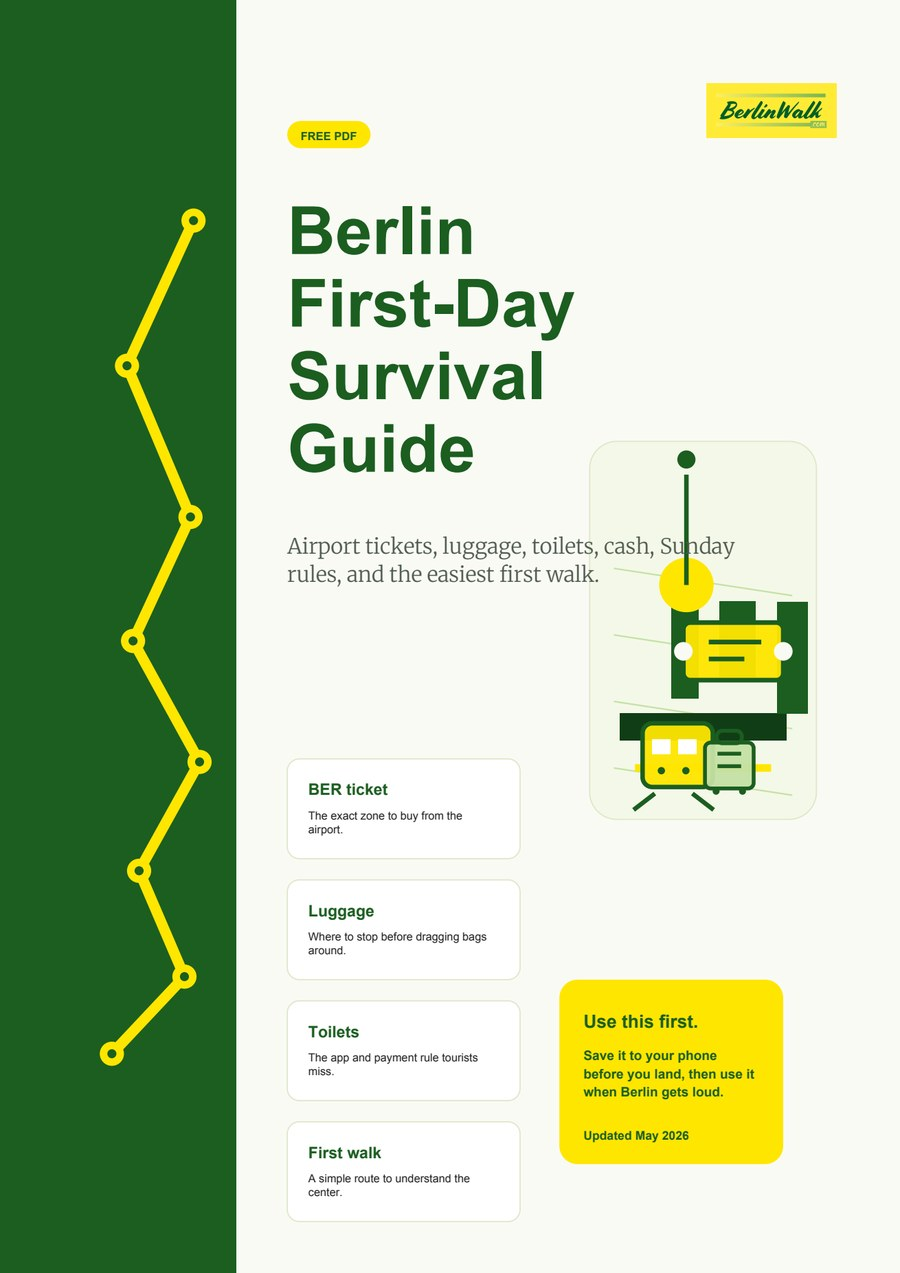
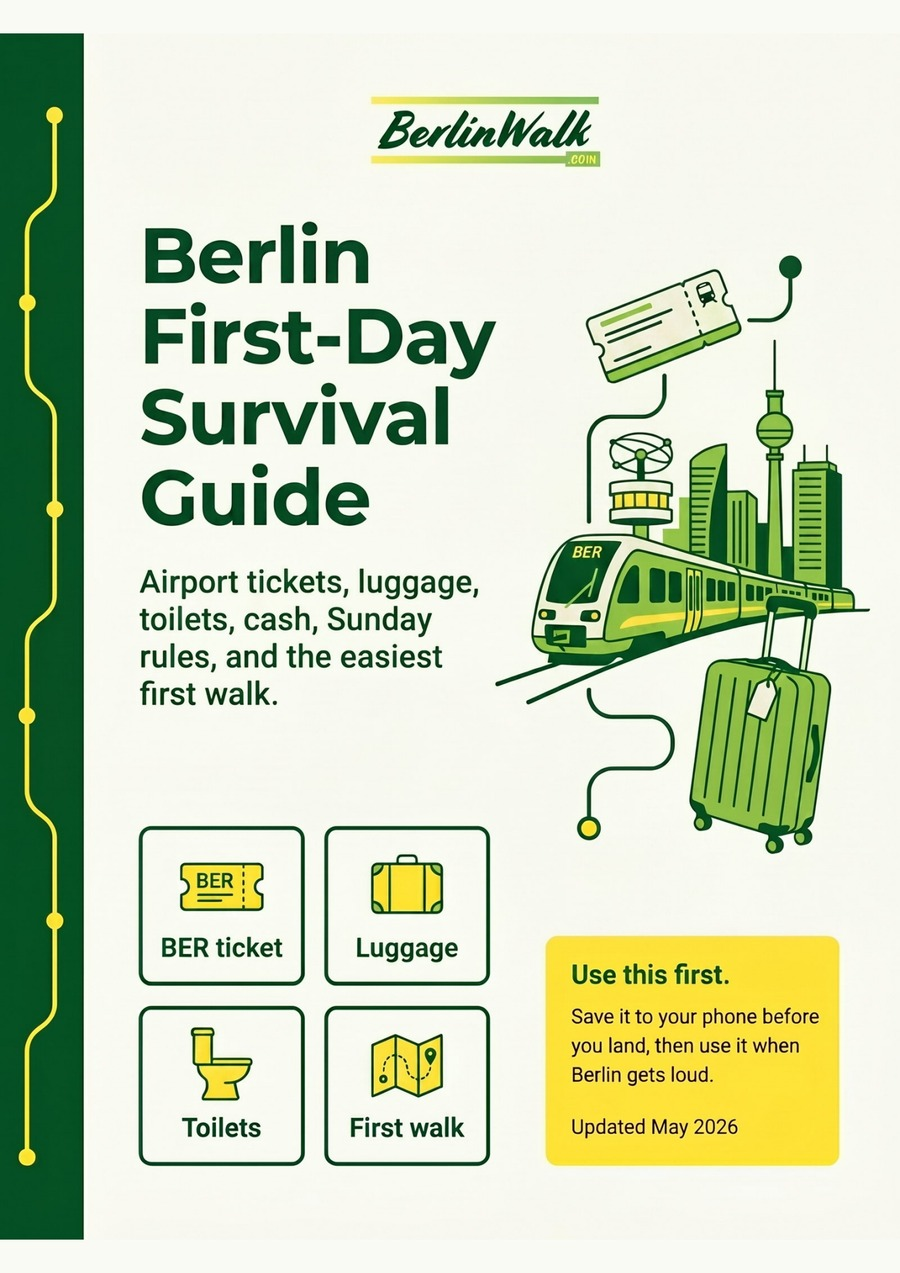
Update First-Day Guide PDF link

diff --git a/js/exit-intent-popup.js b/js/exit-intent-popup.js
@@ -4,7 +4,7 @@
 (function () {
   var BOOKING_URL = 'https://www.berlinwalk.com/book-berlin-walking-tour/berlin-free-walking-tour-tip-based';
   var SUBSCRIBE_URL = 'https://www.berlinwalk.com/_functions/subscribe';
-  var DOWNLOAD_URL = 'https://12ee5ea0-70a7-492f-8020-ffb27cbb630f.usrfiles.com/ugd/5a08a3_2fdd0e52467b4fe98b409d5d64e5818c.pdf';
+  var DOWNLOAD_URL = 'https://12ee5ea0-70a7-492f-8020-ffb27cbb630f.usrfiles.com/ugd/5a08a3_12853b807c6947f09135e339d6ea0a57.pdf';
   var IMAGE_URL = getImageUrl();
   var SESSION_KEY = 'bw-exit-intent-triggered';
   var DESKTOP_MIN_WIDTH = 1024;

diff --git a/lead-form/email/preview.html b/lead-form/email/preview.html
@@ -150,7 +150,7 @@
                 <table cellpadding="0" cellspacing="0" border="0" width="100%" style="border-collapse: collapse;">
                   <tr>
                     <td style="background: #1B5E20; text-align: center;">
-                      <a href="https://12ee5ea0-70a7-492f-8020-ffb27cbb630f.usrfiles.com/ugd/5a08a3_2fdd0e52467b4fe98b409d5d64e5818c.pdf" style="display: block; padding: 17px 18px; font-family: Montserrat, 'Helvetica Neue', Arial, sans-serif; font-size: 12px; line-height: 1.3; font-weight: 800; letter-spacing: 0.04em; text-transform: uppercase; color: #FFE600; text-decoration: none;">Download Berlin First-Day Guide</a>
+                      <a href="https://12ee5ea0-70a7-492f-8020-ffb27cbb630f.usrfiles.com/ugd/5a08a3_12853b807c6947f09135e339d6ea0a57.pdf" style="display: block; padding: 17px 18px; font-family: Montserrat, 'Helvetica Neue', Arial, sans-serif; font-size: 12px; line-height: 1.3; font-weight: 800; letter-spacing: 0.04em; text-transform: uppercase; color: #FFE600; text-decoration: none;">Download Berlin First-Day Guide</a>
                     </td>
                   </tr>
                 </table>

diff --git a/lead-form/email/wix-html-block.html b/lead-form/email/wix-html-block.html
@@ -91,7 +91,7 @@ the current Berlin First-Day Survival Guide.
             <table cellpadding="0" cellspacing="0" border="0" width="100%" style="border-collapse: collapse;">
               <tr>
                 <td style="background: #1B5E20; text-align: center;">
-                  <a href="https://12ee5ea0-70a7-492f-8020-ffb27cbb630f.usrfiles.com/ugd/5a08a3_2fdd0e52467b4fe98b409d5d64e5818c.pdf" style="display: block; padding: 17px 18px; font-family: Montserrat, 'Helvetica Neue', Arial, sans-serif; font-size: 12px; line-height: 1.3; font-weight: 800; letter-spacing: 0.04em; text-transform: uppercase; color: #FFE600; text-decoration: none;">Download Berlin First-Day Guide</a>
+                  <a href="https://12ee5ea0-70a7-492f-8020-ffb27cbb630f.usrfiles.com/ugd/5a08a3_12853b807c6947f09135e339d6ea0a57.pdf" style="display: block; padding: 17px 18px; font-family: Montserrat, 'Helvetica Neue', Arial, sans-serif; font-size: 12px; line-height: 1.3; font-weight: 800; letter-spacing: 0.04em; text-transform: uppercase; color: #FFE600; text-decoration: none;">Download Berlin First-Day Guide</a>
                 </td>
               </tr>
             </table>

diff --git a/lead-form/index.html b/lead-form/index.html
@@ -541,7 +541,7 @@
 
     (function () {
       var API_URL = 'https://www.berlinwalk.com/_functions/subscribe';
-      var DOWNLOAD_URL = 'https://12ee5ea0-70a7-492f-8020-ffb27cbb630f.usrfiles.com/ugd/5a08a3_2fdd0e52467b4fe98b409d5d64e5818c.pdf';
+      var DOWNLOAD_URL = 'https://12ee5ea0-70a7-492f-8020-ffb27cbb630f.usrfiles.com/ugd/5a08a3_12853b807c6947f09135e339d6ea0a57.pdf';
 
       var form = document.querySelector('.bw-signup-form');
       var input = document.querySelector('.bw-input');

diff --git a/lead-form/email/README.md b/lead-form/email/README.md
@@ -34,7 +34,7 @@ welcome `VKufY4L`, owner notification `VKugjPv`.
 ## Current PDF
 
 - Public title: `Berlin First-Day Survival Guide`
-- Public URL: `https://12ee5ea0-70a7-492f-8020-ffb27cbb630f.usrfiles.com/ugd/5a08a3_2fdd0e52467b4fe98b409d5d64e5818c.pdf`
+- Public URL: `https://12ee5ea0-70a7-492f-8020-ffb27cbb630f.usrfiles.com/ugd/5a08a3_12853b807c6947f09135e339d6ea0a57.pdf`
 - Local PDF: `/Users/yusufucuz/Documents/New project/output/pdf/berlin-first-day-survival-guide.pdf`
 - Cover asset: `lead-form/assets/berlin-first-day-survival-guide-cover.jpg`
 
@@ -45,7 +45,7 @@ welcome `VKufY4L`, owner notification `VKugjPv`.
 
 ## Current editor status
 
-Local source was updated on 2026-05-28. The live Wix Triggered Email body still
+Local source was updated on 2026-05-29 with the new AI-page PDF URL. The live Wix Triggered Email body still
 needs manual editor paste if the new public copy should be live immediately;
 the direct email IDs remain unchanged.
 

diff --git a/lead-form/email/berlin-survival-map-welcome.md b/lead-form/email/berlin-survival-map-welcome.md
@@ -4,7 +4,7 @@ Subject: Your Berlin First-Day Survival Guide is here
 
 Preview: Airport tickets, Sunday rules, toilets, luggage, cash and the easiest first walk in one PDF.
 
-CTA URL: https://12ee5ea0-70a7-492f-8020-ffb27cbb630f.usrfiles.com/ugd/5a08a3_2fdd0e52467b4fe98b409d5d64e5818c.pdf
+CTA URL: https://12ee5ea0-70a7-492f-8020-ffb27cbb630f.usrfiles.com/ugd/5a08a3_12853b807c6947f09135e339d6ea0a57.pdf
 
 Secondary CTA URL: https://www.berlinwalk.com/book-berlin-walking-tour/berlin-free-walking-tour-tip-based
 